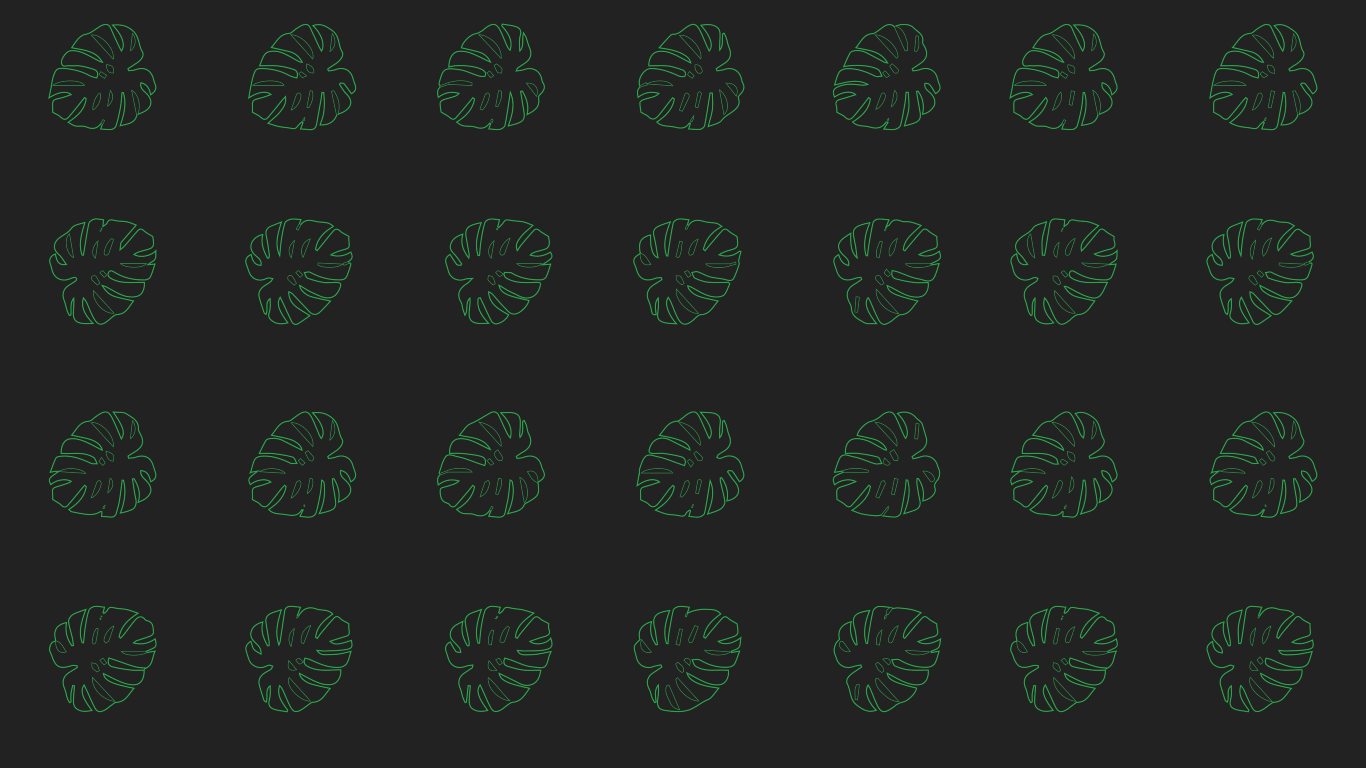
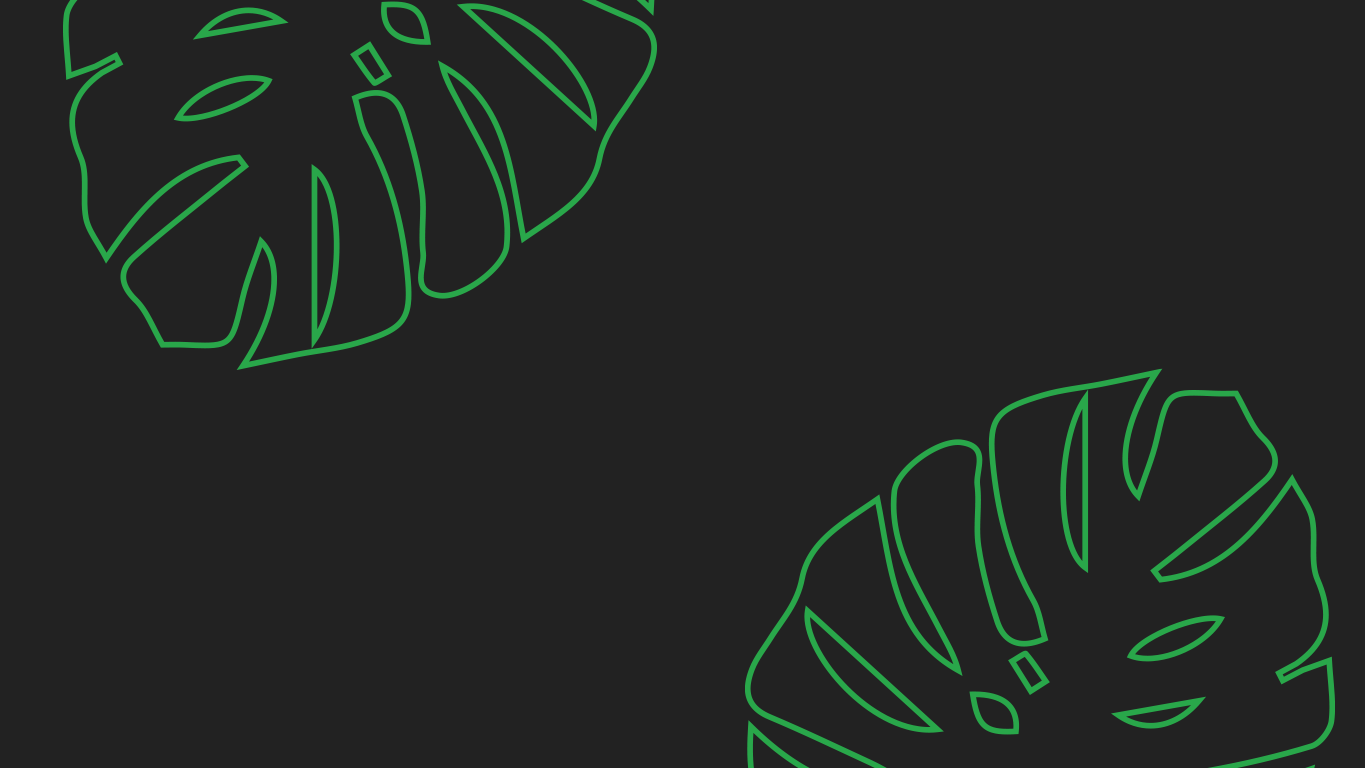
updated background

diff --git a/client/public/index.html b/client/public/index.html
@@ -27,7 +27,7 @@
       work correctly both with client-side routing and a non-root public URL.
       Learn how to configure a non-root public URL by running `npm run build`.
     -->
-    <title>React App</title>
+    <title>MONSTERA</title>
   </head>
   <body>
     <noscript>You need to enable JavaScript to run this app.</noscript>

diff --git a/client/src/index.css b/client/src/index.css
@@ -33,6 +33,9 @@ body {
   color: var(--dark);
   /* background-color: var(--dark) */
   background-image: url(../src/images/background2.png);
+  background-size: cover;
+  background-repeat: no-repeat;
+  background-attachment: fixed;
 }
 
 h1,
